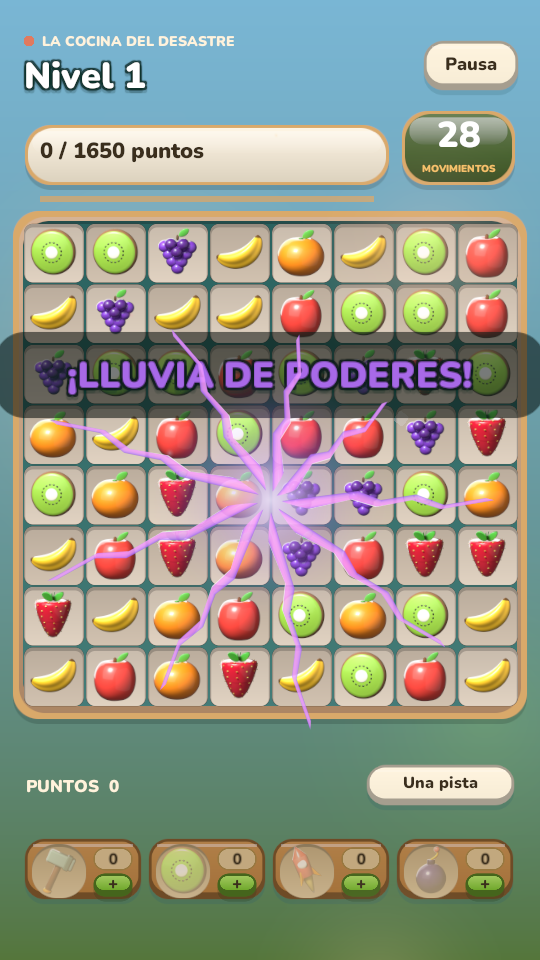
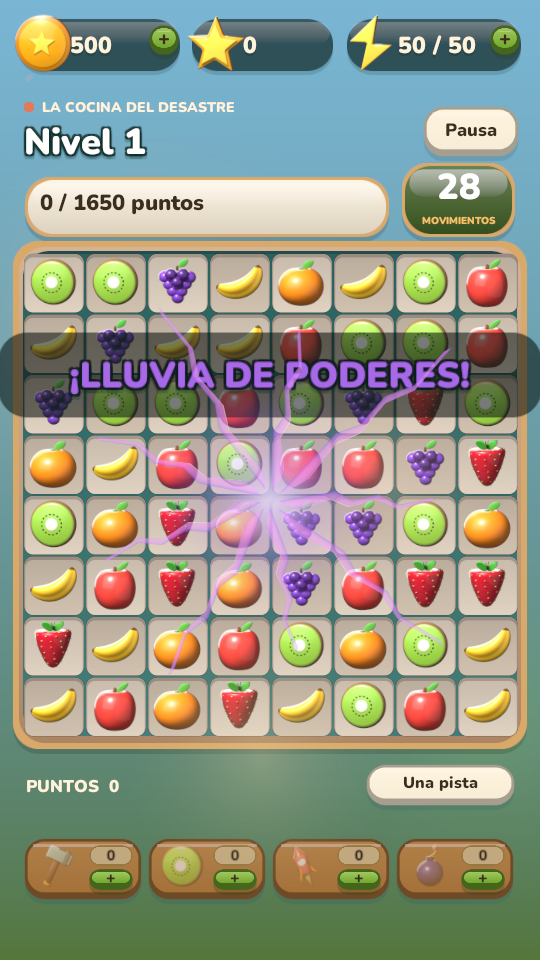
Capturas y registro del repaso de interfaz
Documentacion y capturas del repaso pedido por Fran. El codigo del juego va en
su propio repositorio (FrutiCity/, commit bb2131f).

Tres capturas nuevas, y las tres existen porque el fallo estaba justo en lo que
el recorrido de captura no ensenaba: el perfil, el aviso de empezar de cero y
el cartel de victoria. Las estrellas llevaban saltando 56 px encima del rotulo
y no se veia en ninguna captura porque el cartel de victoria no salia en el
recorrido; hasta anadirlo, el primer intento de arreglo se quedo sin comprobar
y parecia hecho.

diff --git a/docs/fruticity-2/CHANGELOG.md b/docs/fruticity-2/CHANGELOG.md
@@ -1,5 +1,19 @@
 # FrutiCity 2 — cambios
 
+## 2026-09-10 (noche) — repaso de interfaz pedido por Fran
+
+- **La barra de recursos vuelve a estar siempre visible**, también jugando. Monedas y rayos estrenan un **`+`** que lleva a la tienda (y avisa antes de abandonar una partida en curso). Las estrellas no lo llevan: se ganan jugando, y un `+` ahí prometería un atajo que no existe.
+- **Los botones de ayuda pierden el círculo.** La cara del botón mide 112×52 y el hueco de 56 empezaba en y=2: se salía seis píxeles y asomaba un gajo por debajo de la madera. El `+` se salía otros cuatro.
+- **Fuera la barra de progreso** del tablero: decía lo mismo que la pastilla del objetivo con menos precisión y, vacía, se leía como una raya suelta. Ojo, `progressFill` **no** estaba protegido contra nulo en `UpdateMatchHud`: dejar de crearla sin quitar también su escritura habría reventado el HUD en el primer movimiento.
+- **Fuera el fondo azul de la barra de navegación**, que tapaba el pueblo justo por donde el camino llega abajo.
+- **La ciudad ocupa el alto real del móvil.** El botón de jugar estaba clavado en el diseño de 960 mientras `Fit()` empujaba las pestañas al borde: en un móvil alargado quedaba una franja muerta y el botón a media altura. Ahora el camino se estira con `hudSlack` y el botón va en un zócalo pegado abajo.
+- **La receta de combo tiene dos líneas.** «Las hélices salen cargadas con la bomba» se partía y la segunda línea caía **fuera** de la tarjeta crema, porque `UiKit.Label` desborda en vertical a propósito.
+- **Pestaña Perfil**, con datos reales, **volver a empezar de cero** (conserva las ayudas, y las enseña) y **borrar la partida** (borra todo, y lo dice). El verde es siempre el botón de arrepentirse.
+- **Las estrellas del cartel de victoria ya no pisan el texto.** No era falta de sitio: `StarReveal` recentraba el pivote **sumando** medio alto en Y cuando `UiKit` ancla arriba-izquierda con la Y hacia abajo, así que cada estrella saltaba **56 px hacia arriba** al aparecer. Por el mismo motivo su estallido estaba clavado en una coordenada de una versión anterior, y en el mapa reventaba en mitad de la nada.
+- **Gastar monedas y rayos se ve.** Va enganchado al contador y no a cada sitio que cobra, así que cualquier gasto que se añada después sale animado solo; vuela hacia el último botón pulsado, con piezas más pequeñas y rápidas que las de premio.
+
+Sin login todavía: Google y usuario/contraseña necesitan Firebase Authentication y un proyecto con credenciales. La pantalla de Perfil queda preparada como su sitio.
+
 ## 2.0.0 — 10 de septiembre de 2026
 
 Primera versión etiquetada. Recoge las fases 1 a 4 del plan.
